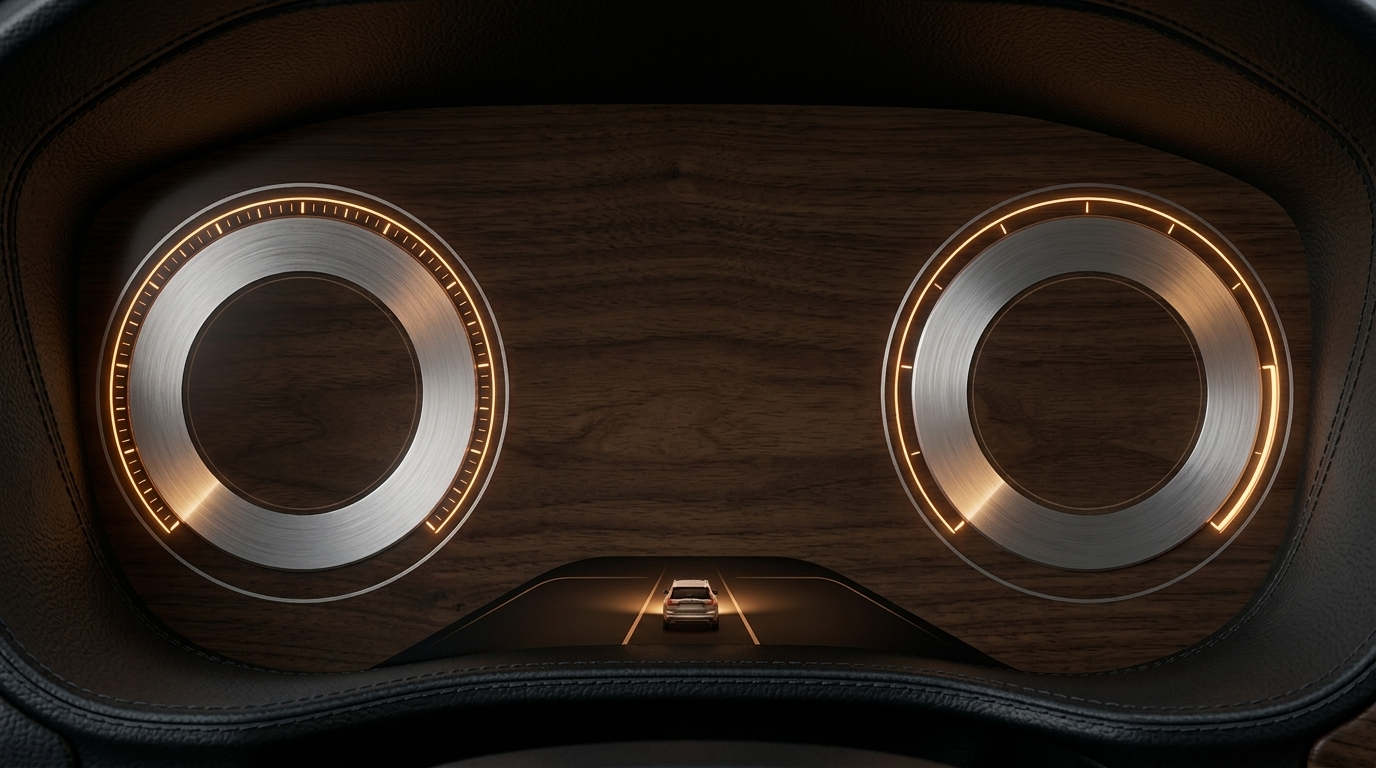
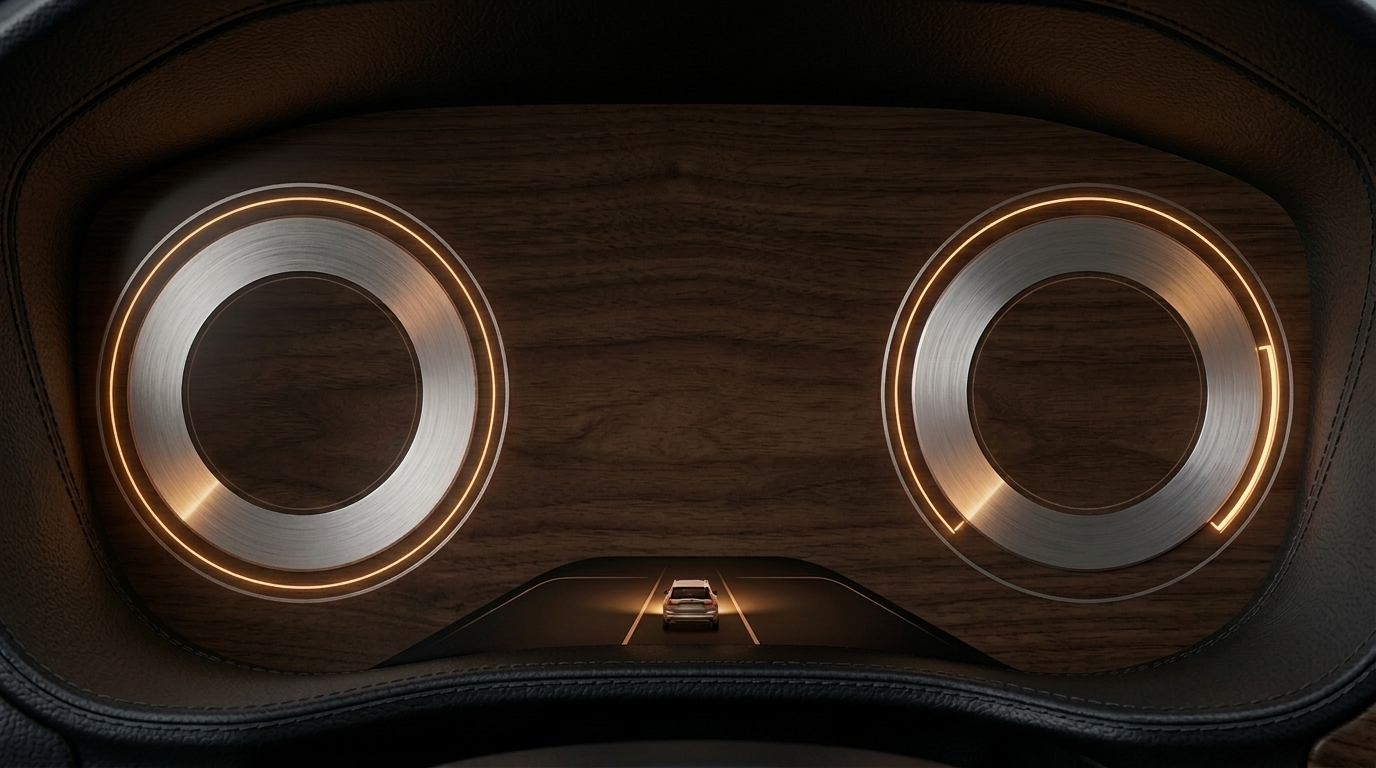
Kadran çentikleri canlı: Gemini ile çentiksiz referans/Klasik/Spor, ölçek araca göre
Claude-Session: https://claude.ai/code/session_01USn5VRxXo6aXVhG4Lvtz5r

diff --git a/app/src/main/java/com/nebi/obdbridge/dash/DashImage.kt b/app/src/main/java/com/nebi/obdbridge/dash/DashImage.kt
@@ -58,6 +58,10 @@ object DashImageGeom {
     /** Kadran rakamları (resimden Gemini ile silindi, araç profiline göre canlı çiziliyor) */
     const val LABEL_R = 278f
     const val LABEL_SIZE = 36f
+    /** Çentikler: rakamların dışında, bandın dış kenarına yakın (2400 ölçeği) */
+    const val TICK_R0 = 312f
+    const val TICK_MAJOR = 26f
+    const val TICK_MINOR = 13f
     /** İsteğe bağlı VOLVO logosu (dash_logo.png, make_layers.py çıktısı) */
     val LOGO = RectF(1068f, 132f, 1068f + 271f, 132f + 48f)
 }
@@ -104,6 +108,7 @@ class DashImageDials(ctx: Context, spec: WidgetSpec, private val th: ImageTheme 
     private val logoTint = if (th.light) android.graphics.PorterDuffColorFilter(0xFF2A2F36.toInt(), android.graphics.PorterDuff.Mode.SRC_IN) else null
     private val logo: Bitmap = load(ctx, R.drawable.dash_logo)
     private val logoDst = RectF()
+    private val tickP = Paint(Paint.ANTI_ALIAS_FLAG).apply { strokeCap = Paint.Cap.ROUND }
     private val labelP = Paint(Paint.ANTI_ALIAS_FLAG).apply {
         textAlign = Paint.Align.CENTER; typeface = Typeface.create("sans-serif-light", Typeface.NORMAL)
     }
@@ -159,6 +164,8 @@ class DashImageDials(ctx: Context, spec: WidgetSpec, private val th: ImageTheme 
         // Rakamlar ışıklı dilimin üstüne: hız 20'şer (240 ve üstünde 40'ar), devir binlik
         val sMax = v.speedMax
         val sStep = if (sMax > 220) 40 else 20
+        ticks(c, DashImageGeom.SPEED_C, sMax / 10, 2, frame["speed"])                  // 10 km/h'de bir, 20'de büyük
+        ticks(c, DashImageGeom.RPM_C, v.rpmMax / 500, 2, frame["rpm"])                // 500 rpm'de bir, binde büyük
         labels(c, DashImageGeom.SPEED_C, (0..sMax step sStep).map { n -> n.toString() }, frame["speed"], th.speedLitLabel ?: th.litLabel)
         labels(c, DashImageGeom.RPM_C, (0..v.rpmMax / 1000).map { n -> n.toString() }, frame["rpm"], th.litLabel)
 
@@ -174,6 +181,27 @@ class DashImageDials(ctx: Context, spec: WidgetSpec, private val th: ImageTheme 
                 val f = ((bd.value - bd.def.min) / (bd.def.max - bd.def.min)).coerceIn(0.0, 1.0).toFloat()
                 c.drawLine(ax0, ay, ax0 + (ax1 - ax0) * f, ay, barP)
             }
+        }
+    }
+
+    /** [n] aralıklı çentik; her [majorEvery]'de bir büyük. Işıklı dilimin üstündekiler temanın çentik rengiyle. */
+    private fun ticks(c: Canvas, center: FloatArray, n: Int, majorEvery: Int, d: Display?) {
+        val cx = ox + center[0] * s; val cy = oy + center[1] * s
+        val f = if (d == null || d.missing) 0f else ((d.value - d.def.min) / (d.def.max - d.def.min)).coerceIn(0.0, 1.0).toFloat()
+        val r0 = DashImageGeom.TICK_R0 * s
+        for (i in 0..n) {
+            val frac = i.toFloat() / n
+            val major = i % majorEvery == 0
+            val a = Math.toRadians((DashImageGeom.START + DashImageGeom.SWEEP * frac).toDouble())
+            val len = (if (major) DashImageGeom.TICK_MAJOR else DashImageGeom.TICK_MINOR) * s
+            val ca = cos(a).toFloat(); val sa = sin(a).toFloat()
+            val lit = frac <= f
+            tickP.color = if (lit) th.tickLit ?: (th.speedLitLabel ?: th.litLabel) else th.tickDim ?: th.dimLabel
+            tickP.alpha = if (major) 230 else 150
+            tickP.strokeWidth = (if (major) 4.5f else 2.5f) * s
+            // Büyükler dışa doğru uzar, küçükler dış kenarda kısa
+            val ra = if (major) r0 else r0 + len
+            c.drawLine(cx + ra * ca, cy + ra * sa, cx + (r0 + DashImageGeom.TICK_MAJOR * s) * ca, cy + (r0 + DashImageGeom.TICK_MAJOR * s) * sa, tickP)
         }
     }
 

diff --git a/app/src/main/java/com/nebi/obdbridge/dash/ImageTheme.kt b/app/src/main/java/com/nebi/obdbridge/dash/ImageTheme.kt
@@ -22,6 +22,9 @@ data class ImageTheme(
     /** Açık zemin (gündüz): kartlar açık cam, yazılar koyu */
     val light: Boolean = false,
     val accent: Int,
+    /** Kadran çentikleri (resimlerden silindi, canlı çiziliyor); null = rakam renkleri */
+    val tickLit: Int? = null,
+    val tickDim: Int? = null,
 ) {
     /** Üst çubuk ve göstergelerin kullandığı renk takımı */
     fun dash() = DashTheme.IMAGE.copy(
@@ -48,7 +51,8 @@ data class ImageTheme(
             ImageTheme("glacier", "Buzul", R.drawable.theme_glacier_base, R.drawable.theme_glacier_lit, 199f, 380f,
                 0xFF0F1E30.toInt(), 0xFFB8CCE0.toInt(), accent = 0xFF8CCBF0.toInt()),
             ImageTheme("day", "Gündüz", R.drawable.theme_day_base, R.drawable.theme_day_lit, 311f, 369f,
-                DARK_TXT.toInt(), 0xFF7A828A.toInt(), light = true, accent = 0xFF1F6FD1.toInt()),
+                DARK_TXT.toInt(), 0xFF7A828A.toInt(), light = true, accent = 0xFF1F6FD1.toInt(),
+                tickLit = 0xFFE8EAED.toInt(), tickDim = 0xFF9AA2A9.toInt()),   // çentikler koyu bandın üstünde
         )
 
         /** Eski kayıtlar (auto/night/day/premium vektör temaları) referans temaya düşer */

diff --git a/tools/dash_assets/make_layers.py b/tools/dash_assets/make_layers.py
@@ -21,7 +21,7 @@ OUT = os.path.join(HERE, "..", "..", "app", "src", "main", "res", "drawable-nodp
 
 img = cv2.imread(os.path.join(HERE, "reference.jpg"))
 H, W = img.shape[:2]
-# Gemini ile yazısız hale getirilmiş referans (2026-10-10, hizası ölçüldü: < 0,1 px). Varsa silme maskesine gerek yok;
+# Gemini ile yazısız ve çentiksiz hale getirilmiş referans (2026-10-10, hizası ölçüldü: < 0,2 px). Varsa silme maskesine gerek yok;
 # OpenCV inpaint kadran bandında iz bırakıyordu.
 CLEAN = os.path.join(HERE, "reference_clean.png")
 mask = np.zeros((H, W), np.uint8)
